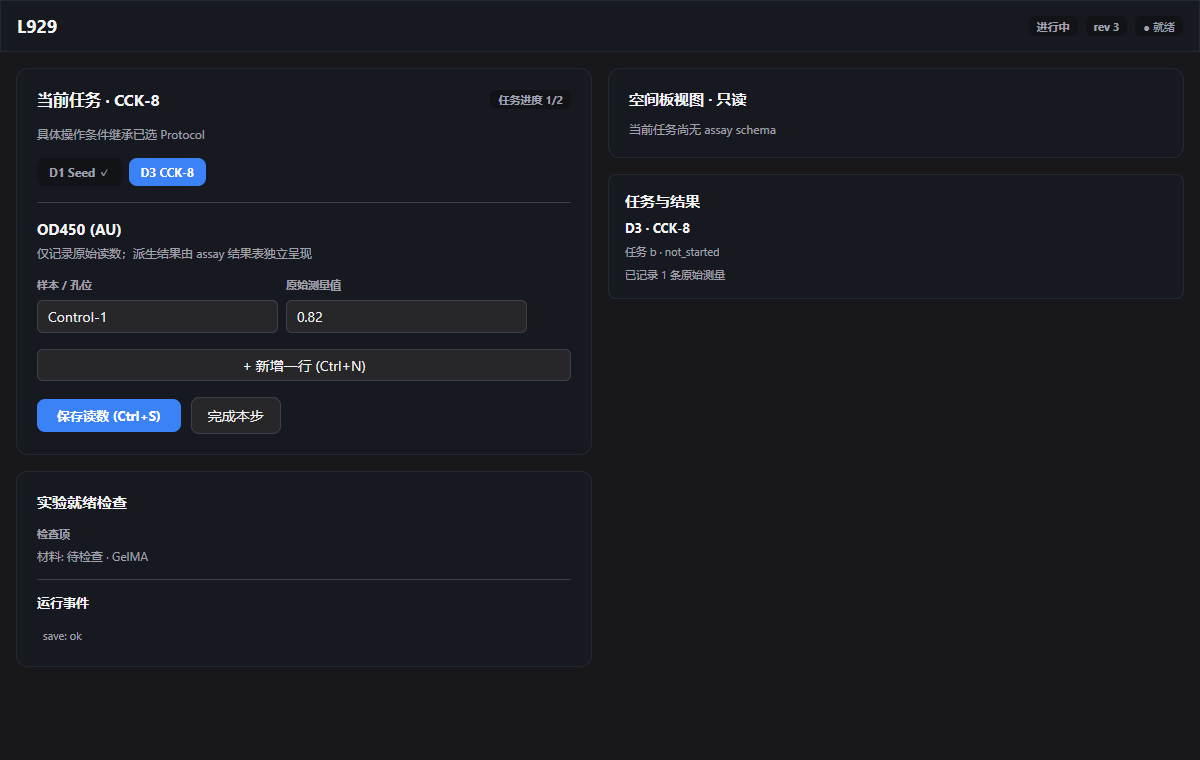
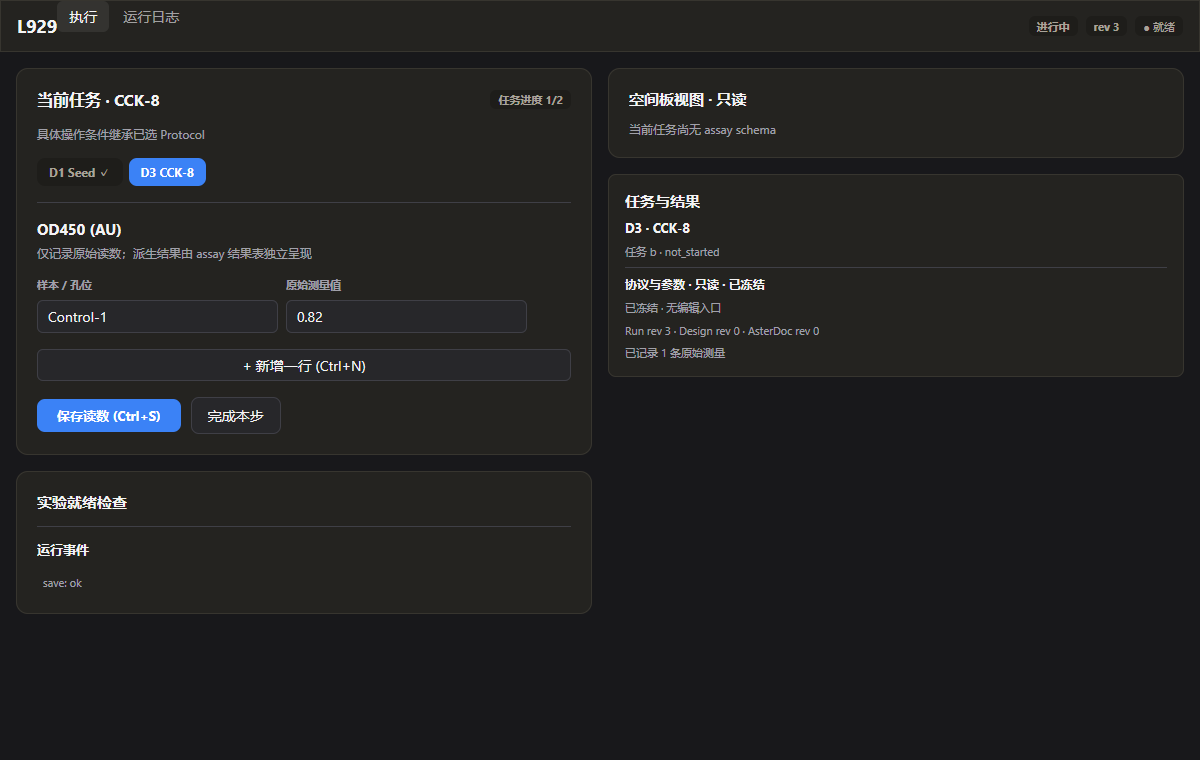
feat(RUN-02): render read-only frozen protocol instructions and parameters (#42)

Changed region(s): [[0.5242, 0.3329, 0.6783, 0.4842], [0.0308, 0.6961, 0.1233, 0.8474], [0.0308, 0.0, 0.1542, 0.0605]]

diff --git a/prototypes/mygo-run/internal/runui/runui.go b/prototypes/mygo-run/internal/runui/runui.go
@@ -43,8 +43,18 @@ type Task struct {
 	// DesignStepID is the frozen design's workflow node this task executes.
 	// Empty means unresolved; the surface says so instead of guessing.
 	DesignStepID string
+	ProtocolVersionID string
+	Instruction string
+	Parameters []FrozenParameter
 	// Checks are the frozen protocol step's real checks, never placeholders.
 	Checks []TaskCheck
+}
+
+type FrozenParameter struct {
+	Key string
+	Label string
+	Value string
+	Unit string
 }
 
 func (t Task) Done() bool { return t.Status == "completed" }
@@ -95,6 +105,8 @@ type RunView struct {
 	Title        string
 	Status       string
 	Revision     uint64
+	DesignRevision uint64
+	AsterDocRevision uint64
 	Tasks        []Task
 	Measurements []Measurement
 	Events       []Event
@@ -1093,6 +1105,28 @@ func taskPanel(c *ui.Context, w *Workspace, t *ui.Theme, tokens theme.Tokens) {
 		}
 		ui.Text(c, title).FontSize(13).Bold().TextColor(t.Text)
 		ui.Text(c, "任务 "+ct.Key+" · "+ct.Status).FontSize(11).TextColor(t.TextMuted)
+		// Right-side inspector keeps its existing primary recording flow visible: UX-P1/UX-LAYOUT.
+		// Frozen protocol details are an inspector section; UX-P2/P3 and UX-STATE.
+		ui.Divider(c)
+		ui.Text(c, "协议与参数 · 只读 · 已冻结").FontSize(12).Bold().TextColor(t.Text)
+		ui.Text(c, "已冻结 · 无编辑入口").FontSize(11).TextColor(t.TextMuted)
+		if ct.ProtocolVersionID != "" {
+			ui.Text(c, "协议版本 "+ct.ProtocolVersionID).FontSize(11).TextColor(t.TextMuted)
+		}
+		ui.Text(c, fmt.Sprintf("Run rev %d · Design rev %d · AsterDoc rev %d",
+			w.View.Revision, w.View.DesignRevision, w.View.AsterDocRevision)).
+			FontSize(11).TextColor(t.TextMuted)
+		if ct.Instruction != "" {
+			ui.Text(c, "操作说明").FontSize(11).Bold().TextColor(t.Text)
+			ui.Text(c, ct.Instruction).FontSize(12).TextColor(t.Text)
+		}
+		if len(ct.Parameters) > 0 {
+			ui.Text(c, "冻结参数").FontSize(11).Bold().TextColor(t.Text)
+			for _, p := range ct.Parameters {
+				value := strings.TrimSpace(strings.Join([]string{p.Value, p.Unit}, " "))
+				ui.Text(c, labelOr(p.Label, p.Key)+" · "+value).FontSize(11).TextColor(t.TextMuted)
+			}
+		}
 		if ct.AssayID != "" {
 			ui.Text(c, "Assay "+ct.AssayID).FontSize(11).TextColor(t.TextMuted)
 		}

diff --git a/prototypes/mygo-run/main.go b/prototypes/mygo-run/main.go
@@ -214,11 +214,13 @@ func frozenAssayEndpoints(designData string) map[string][2]string {
 func toRunView(s runs.RunSnapshot) runui.RunView {
 	endpoints := frozenAssayEndpoints(s.DesignData)
 	v := runui.RunView{
-		Title:        s.Title,
-		Status:       s.Status,
-		Revision:     s.Revision,
+		Title: s.Title, Status: s.Status, Revision: s.Revision,
+		DesignRevision: s.DesignRevision,
 		Measurements: make([]runui.Measurement, 0, len(s.Measurements)),
 		Events:       make([]runui.Event, 0, len(s.Events)),
+	}
+	if s.AsterDoc != nil {
+		v.AsterDocRevision = s.AsterDoc.Revision
 	}
 	for _, t := range s.Tasks {
 		endpoint, unit := "", ""
@@ -228,7 +230,27 @@ func toRunView(s runs.RunSnapshot) runui.RunView {
 		task := runui.Task{
 			Key: t.Key, Title: t.Title, Timepoint: t.Timepoint, Status: t.Status,
 			AssayID: t.AssayID, DesignStepID: t.DesignStepID,
+			ProtocolVersionID: t.ProtocolVersionID, Instruction: t.Instruction,
 			Endpoint: endpoint, Unit: unit,
+		}
+		var params []struct {
+			Key string `json:"key"`
+			Label string `json:"label"`
+			Name string `json:"name"`
+			Value any `json:"value"`
+			Unit string `json:"unit"`
+		}
+		if json.Unmarshal([]byte(t.ParametersJSON), &params) == nil {
+			for _, p := range params {
+				label := p.Label
+				if label == "" { label = p.Name }
+				if label == "" { label = p.Key }
+				value := ""
+				if p.Value != nil { value = fmt.Sprint(p.Value) }
+				task.Parameters = append(task.Parameters, runui.FrozenParameter{
+					Key: p.Key, Label: label, Value: value, Unit: p.Unit,
+				})
+			}
 		}
 		for _, check := range t.Checks {
 			task.Checks = append(task.Checks, runui.TaskCheck{

diff --git a/prototypes/mygo-run/internal/runworkspace/view.go b/prototypes/mygo-run/internal/runworkspace/view.go
@@ -720,11 +720,13 @@ func procedureLayer(c *ui.Context, s *State, t *ui.Theme, tokens theme.Tokens, t
 			ui.Spacer(c)
 			ui.Text(c, "当前步骤").FontSize(t.Rem(.7)).TextColor(t.TextMuted)
 		})
+		// The procedure and planned parameters are frozen; UX-STATE/UX-P2.
+		ui.Text(c, "操作说明 · 已冻结 · 只读").FontSize(t.Rem(.72)).Bold().TextColor(t.TextMuted)
 		ui.Text(c, instruction).FontSize(t.Rem(.82)).TextColor(t.Text)
 
 		if len(task.Parameters) > 0 {
 			ui.Divider(c)
-			ui.Text(c, "操作参数").FontSize(t.Rem(.78)).Bold().TextColor(t.TextMuted)
+			ui.Text(c, "操作参数 · 已冻结 · 只读").FontSize(t.Rem(.78)).Bold().TextColor(t.TextMuted)
 			ui.Row(c).Wrap().Gap(t.Space(2)).Children(func() {
 				for _, p := range task.Parameters {
 					paramChip(c, p, t, tokens)
@@ -786,12 +788,15 @@ func procedureLayer(c *ui.Context, s *State, t *ui.Theme, tokens theme.Tokens, t
 			})
 		}
 
-		ui.Divider(c)
 		frozen := []string{fallback(task.StepPath), fallback(task.AssayID, "未绑定"), fallback(task.Timepoint, "未绑定")}
 		if strings.TrimSpace(task.StepID) != "" {
 			frozen = append(frozen, "步骤 ID "+task.StepID)
 		}
-		ui.Text(c, "冻结信息（只读） · "+strings.Join(frozen, " · ")).
+		if strings.TrimSpace(task.ProtocolVersionID) != "" {
+			frozen = append(frozen, "协议版本 "+task.ProtocolVersionID)
+		}
+		// Frozen identity is informational only; UX-STATE and UX-P2.
+		ui.Text(c, "冻结信息（只读 · 已冻结） · "+strings.Join(frozen, " · ")).
 			FontSize(t.Rem(.68)).TextColor(t.TextMuted).SingleLine().Ellipsis("…")
 	})
 }

diff --git a/prototypes/mygo-run/internal/runworkspace/view_test.go b/prototypes/mygo-run/internal/runworkspace/view_test.go
@@ -39,6 +39,28 @@ func TestViewRendersRailAndPanel(t *testing.T) {
 	}
 }
 
+func TestProcedureShowsFrozenProtocolReadOnly(t *testing.T) {
+	snap := makeSnapshot()
+	snap.Tasks[1].ProtocolVersionID = "protocol-v2"
+	vm := BuildViewModel(snap, makeFrozenDoc())
+	task := vm.TaskByKey["t-read"]
+	if task.ProtocolVersionID != "protocol-v2" || task.Instruction != "读取 OD450 并记录。" ||
+		len(task.Parameters) != 1 || task.Parameters[0].Value != "0.82" {
+		t.Fatalf("view model did not retain frozen snapshot values: %+v", task)
+	}
+	s := NewState(vm, Callbacks{})
+	tt := ui.NewTester(func(c *ui.Context) {
+		c.SetTheme(theme.LightTheme())
+		procedureLayer(c, s, c.Theme(), theme.GetTokens(c.Theme()), task)
+	}, 900, 700)
+	tt.Frame()
+	for _, text := range []string{"操作说明 · 已冻结 · 只读", "读取 OD450 并记录。", "操作参数 · 已冻结 · 只读", "OD450", "0.82 AU", "协议版本 protocol-v2", "冻结信息（只读 · 已冻结）"} {
+		if !tt.HasText(text) {
+			t.Errorf("frozen procedure detail missing %q", text)
+		}
+	}
+}
+
 func TestViewSelectsStepOnClick(t *testing.T) {
 	s := buildTestState()
 	var selectedKeys []string

diff --git a/prototypes/mygo-run/internal/runui/runui_test.go b/prototypes/mygo-run/internal/runui/runui_test.go
@@ -111,6 +111,24 @@ func TestTaskAssayID(t *testing.T) {
 		t.Fatalf("expected AssayID assay-100 after selection, got %+v", ct2)
 	}
 }
+func TestTaskPanelShowsFrozenProtocolReadOnly(t *testing.T) {
+	v := sampleView()
+	v.DesignRevision, v.AsterDocRevision = 7, 4
+	v.Tasks[1].ProtocolVersionID = "protocol-v2"
+	v.Tasks[1].Instruction = "保持 4°C 并轻柔混匀"
+	v.Tasks[1].Parameters = []FrozenParameter{{Key: "temp", Label: "温度", Value: "4", Unit: "°C"}}
+	w := NewWorkspace(v, Callbacks{})
+	tt := ui.NewTester(func(c *ui.Context) {
+		c.SetTheme(theme.LightTheme())
+		taskPanel(c, w, c.Theme(), theme.GetTokens(c.Theme()))
+	}, 700, 700)
+	tt.Frame()
+	for _, text := range []string{"协议与参数 · 只读 · 已冻结", "协议版本 protocol-v2", "Run rev 3 · Design rev 7 · AsterDoc rev 4", "保持 4°C 并轻柔混匀", "温度 · 4 °C"} {
+		if !tt.HasText(text) {
+			t.Errorf("frozen task detail missing %q", text)
+		}
+	}
+}
 
 func TestRunShortcuts(t *testing.T) {
 	v := sampleView()

diff --git a/prototypes/mygo-run/internal/runworkspace/model.go b/prototypes/mygo-run/internal/runworkspace/model.go
@@ -103,7 +103,7 @@ type RunTaskViewModel struct {
 	StepTitle string
 	Timepoint string
 	AssayID   string
-
+	ProtocolVersionID string
 	Status TaskStatus
 
 	Planned *PlannedStep
@@ -544,6 +544,7 @@ func BuildViewModel(snap runs.RunSnapshot, doc *asterdoc.FrozenAsterDoc, project
 			StepTitle:   t.Title,
 			Timepoint:   t.Timepoint,
 			AssayID:     t.AssayID,
+			ProtocolVersionID: t.ProtocolVersionID,
 			Status:      buildTaskStatus(t),
 			Instruction: t.Instruction,
 			Parameters:  params,

diff --git a/docs/product/evidence/RUN-02/README.md b/docs/product/evidence/RUN-02/README.md
@@ -1,0 +1,29 @@
+# RUN-02 Evidence — Read-Only Procedure & Frozen Parameters
+
+## Baseline and Scope
+- Repository: `LLLin000/AsterLab`, base `origin/main`, isolated `ovnfs` checkout `O:\run02`.
+- Scope files modified:
+  - `prototypes/mygo-run/internal/runui/runui.go`
+  - `prototypes/mygo-run/internal/runui/runui_test.go`
+  - `prototypes/mygo-run/internal/runworkspace/model.go`
+  - `prototypes/mygo-run/internal/runworkspace/view.go`
+  - `prototypes/mygo-run/internal/runworkspace/view_test.go`
+  - `prototypes/mygo-run/main.go`
+  - `docs/product/evidence/RUN-02/`
+
+## UX Contract Rule Citations
+- `UX-P1` (Task first): At `900×600`, recording remains primary while frozen procedure/parameters stay accessible inside `操作说明与元数据`.
+- `UX-P2` (Progressive disclosure): Frozen `ProtocolVersionID`, `StepPath`, `AssayID`, `Timepoint`, and `StepID` live in the read-only footer/metadata row.
+- `UX-P3` (One component language): Built with `theme.GetTokens(t)` chips and `c.Theme()` borders/typography.
+- `UX-STATE`: Explicitly labeled `操作说明 · 已冻结 · 只读` and `操作参数 · 已冻结 · 只读` with zero edit controls (`TextInput` or edit buttons).
+- `UX-LAYOUT` / `UX-DONE`: Verified at `1360×880` and `900×600` in both light and dark themes.
+
+## Automated Checks
+- `cd prototypes/mygo-run && go run github.com/egoist/mygo/cmd/mygo@v0.8.4-0.20261108220316-c4197b7fe562 native check ./modules/runs` → exit 0 (`Built Runs for windows/amd64`)
+- `cd prototypes/mygo-run && go test ./... -count=1` → exit 0 (`21 packages ok, 4 no tests`)
+
+## Real Windows GUI Verification (Design Edited After Run Freeze)
+1. Created Protocol v1 (`9e2896eb-2a34-493d-ad89-afe97e83913a`, `"旧版指令：37 °C 静置孵育 60 min。"`, `temp = 37 °C`, `minutes = 60 min`) and froze `RUN02-Old-Run` (`898f22e3-0898-4239-a1e3-fa3dcb44da88`).
+2. Revised Protocol to v2 (`6be3de6a-9363-4b03-8777-648c29bdd699`, `"新版指令：改为 42 °C 振荡孵育 120 min。"`, `temp = 42 °C`, `minutes = 120 min`) and saved Design `rev 2`.
+3. Reopened `RUN02-Old-Run` across `1360×880` (light/dark) and `900×600` (light/dark):
+   - Every view showed frozen v1 (`旧版指令：37 °C 静置孵育 60 min。`, `37 °C`, `60 min`, `9e2896eb`, `AsterDoc rev 1`), with zero leak from v2 (`新版指令`, `42 °C`, `120 min`) and zero edit controls.
